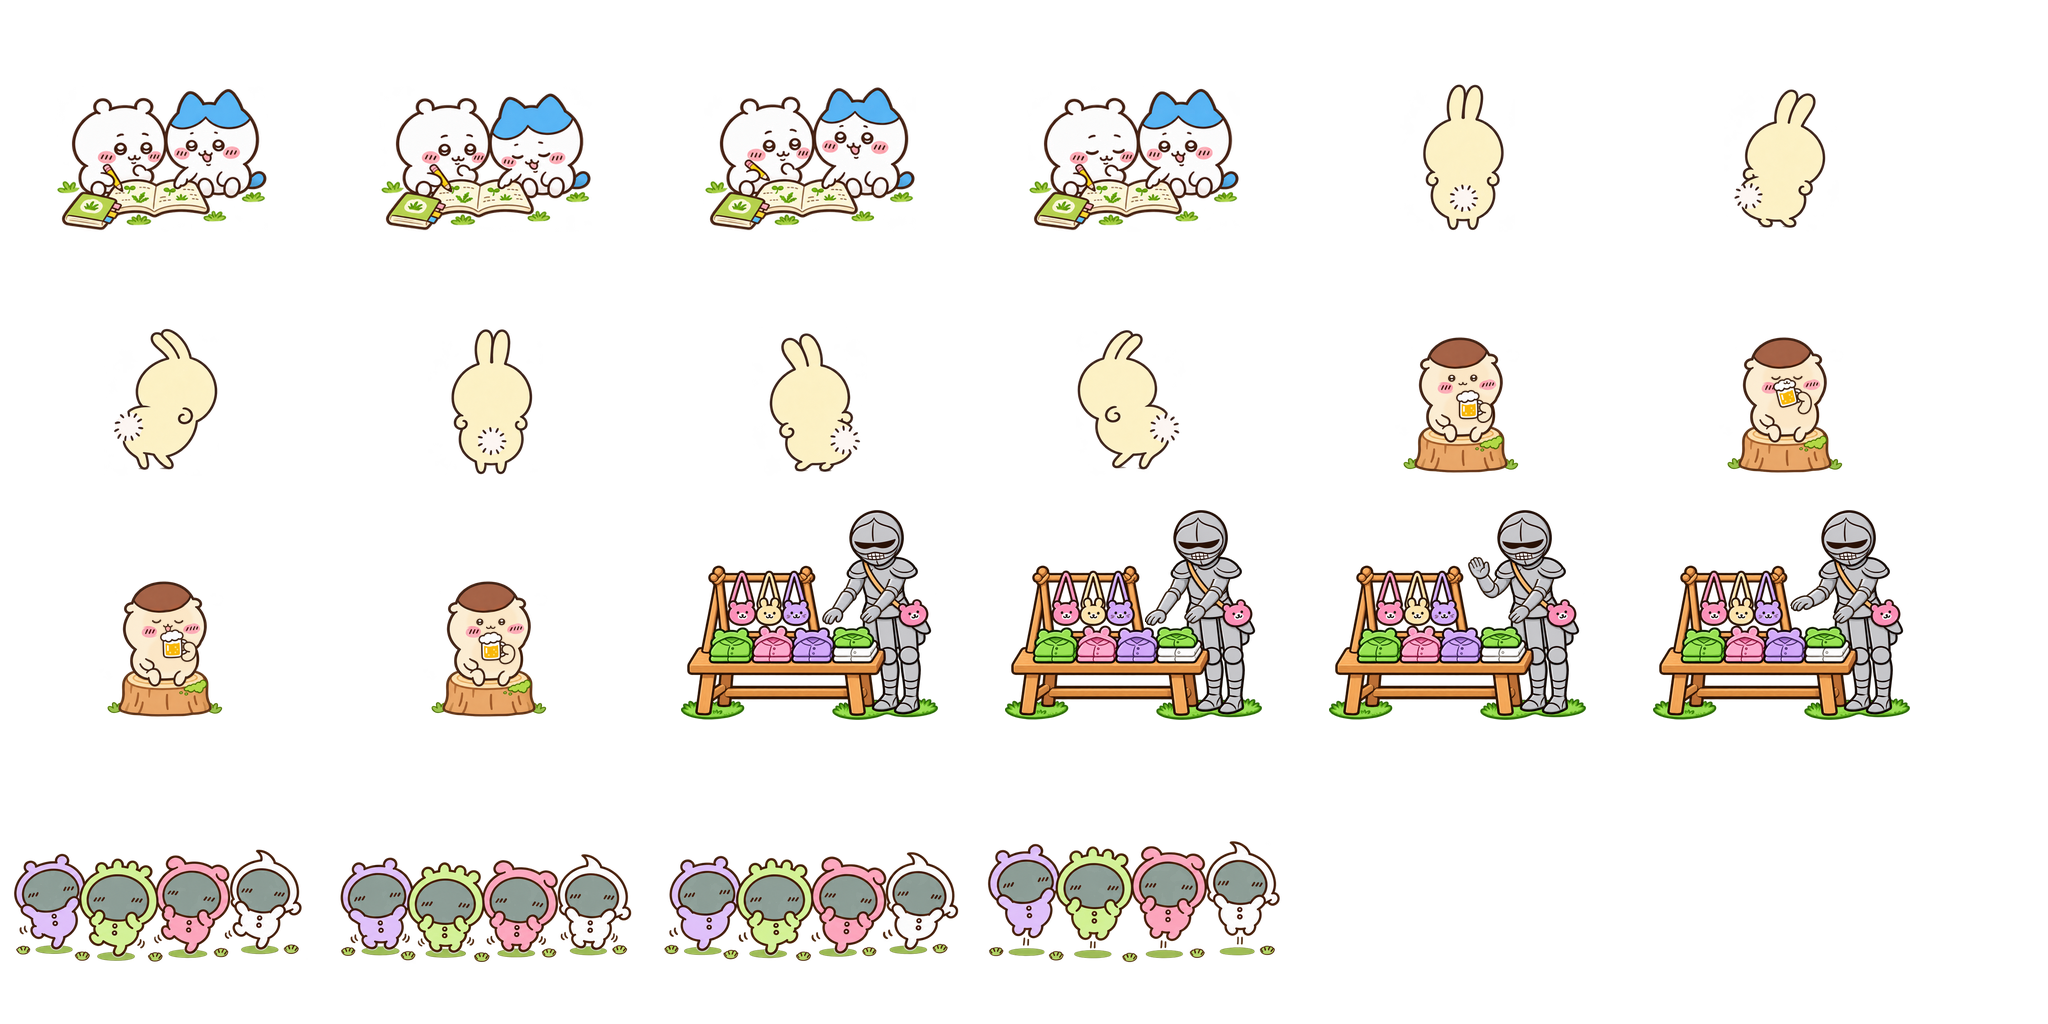
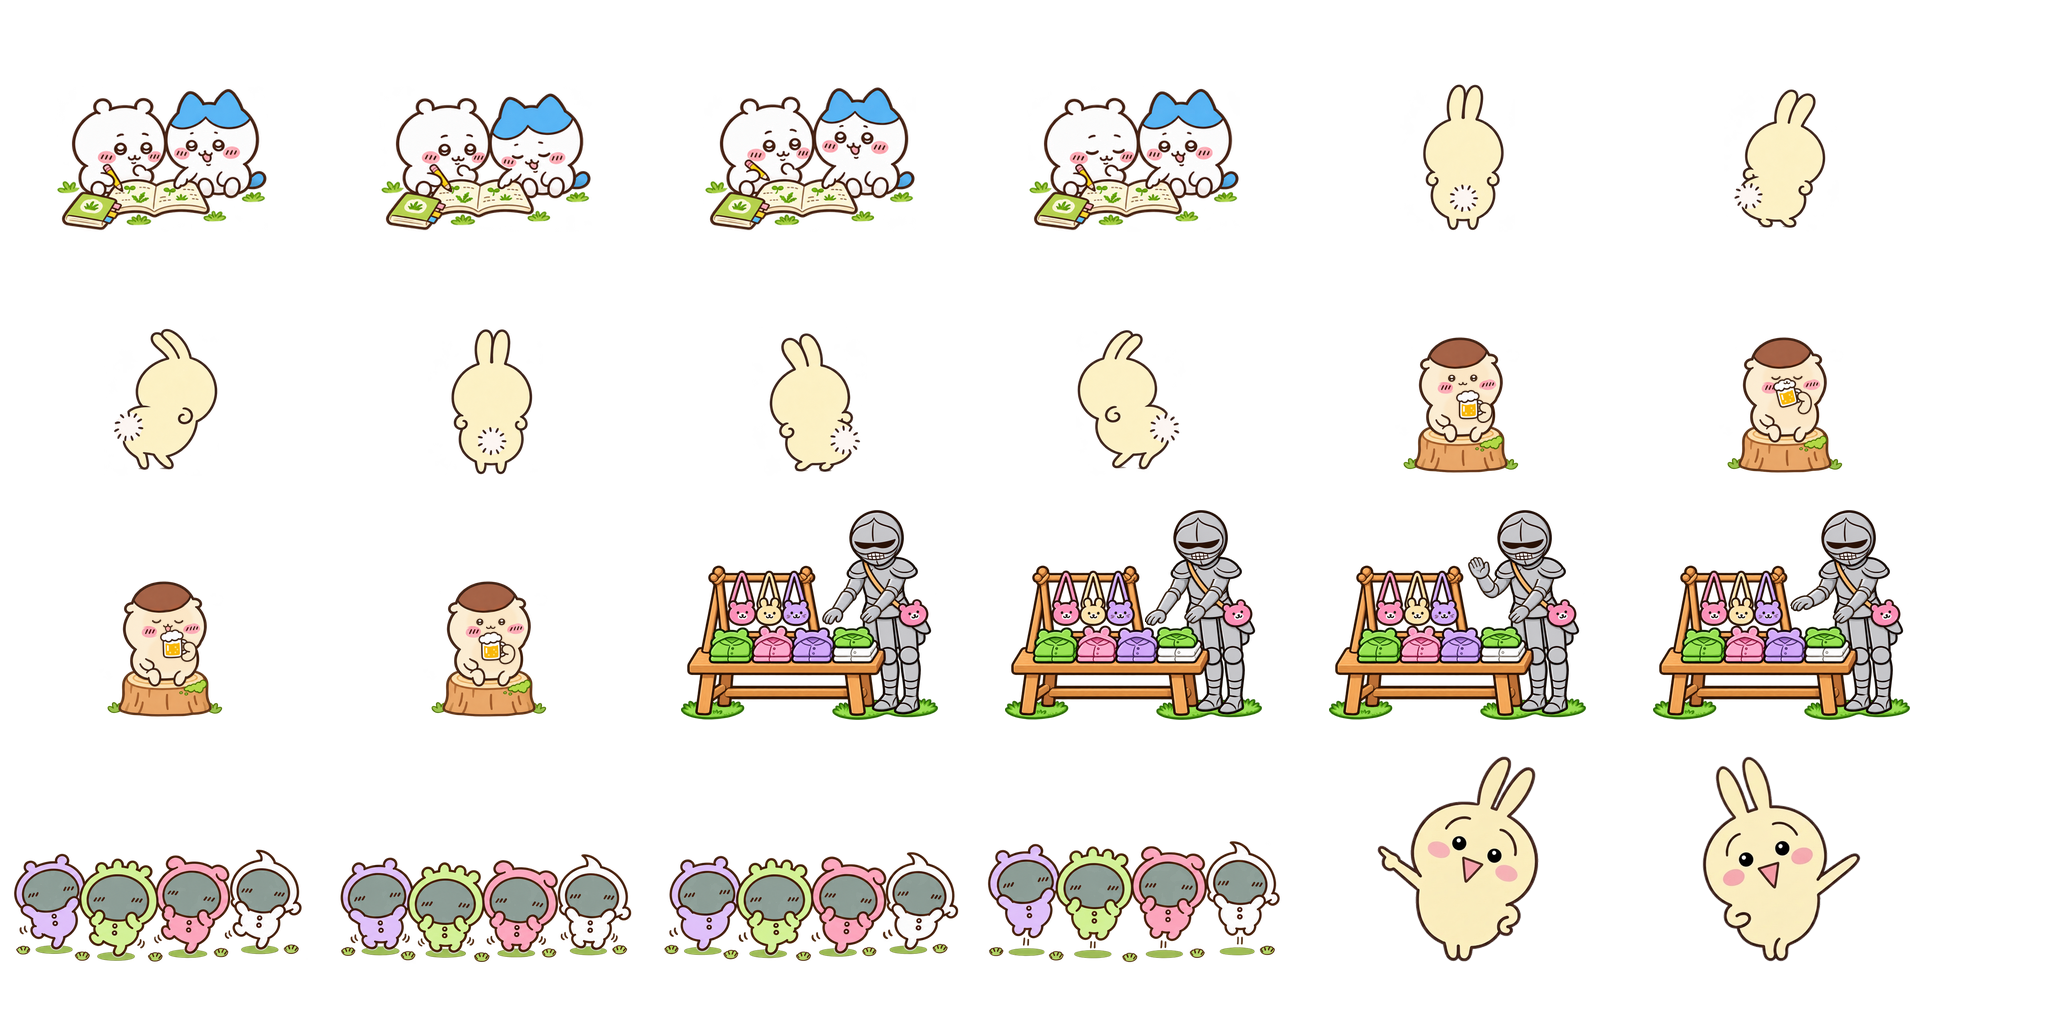
feat: apply Hachiware weeding art (no roots) and Usagi left/right dance strikes

Changed region(s): [[0.8125, 0.75, 0.9062, 0.9375], [0.6562, 0.75, 0.75, 0.9375]]

diff --git a/src/minigame.css b/src/minigame.css
@@ -115,7 +115,9 @@
 /* Weed conveyor: positions and timer follow only WeedGame's clock. */
 .weed-helper{display:flex;align-items:center;justify-content:center;gap:12px;font-weight:bold;color:#547d6b}.weed-hachiware{display:block;width:76px;height:89px;background:url('/assets/event-atlas.webp') no-repeat;background-size:405.333px 101.333px;background-position:-78.375px -.792px}
 .weed-stage{--weed-step:82px;position:relative;isolation:isolate;max-width:600px;height:138px;margin:2px auto 8px;overflow:hidden;border-radius:20px;background:linear-gradient(#f0f8e5 65%,#d7e9bb 65%);border:2px solid #c3d5ad}.weed-row{position:absolute;inset:0}.weed-center{position:absolute;left:50%;top:5px;bottom:5px;width:76px;transform:translateX(-50%);border:3px dashed #74945a;border-radius:15px;background:#fff9d78a}
-.weed-tile{position:absolute;top:14px;width:72px;height:108px;transform:translateX(-50%);border:2px solid #a6bd8c;border-radius:13px;background:#fffdf0;text-align:center}.weed-tile.is-current{border-color:#597e46;box-shadow:0 0 0 2px #e5efb7}.weed-plant{display:block;position:relative;height:70px;margin:3px auto;font-size:59px;line-height:70px;color:#ed9ea5}.weed-tile[data-kind=weed] .weed-plant{width:5px;height:45px;margin-top:21px;margin-bottom:10px;background:#72a659;border-radius:5px;transform:rotate(8deg)}.weed-tile[data-kind=weed] .weed-plant::before,.weed-tile[data-kind=weed] .weed-plant::after{content:'';position:absolute;width:23px;height:13px;background:#8cba67;border:1px solid #709956;border-radius:80% 0 80% 0;top:8px;right:0;transform:rotate(25deg);transform-origin:right bottom}.weed-tile[data-kind=weed] .weed-plant::after{right:auto;left:3px;top:20px;transform:scaleX(-1) rotate(20deg)}
+.weed-tile{position:absolute;top:14px;width:72px;height:108px;transform:translateX(-50%);border:2px solid #a6bd8c;border-radius:13px;background:#fffdf0;text-align:center}.weed-tile.is-current{border-color:#597e46;box-shadow:0 0 0 2px #e5efb7}.weed-plant{display:block;position:relative;width:56px;height:70px;margin:3px auto;background-size:contain;background-repeat:no-repeat;background-position:center bottom}
+.weed-tile[data-kind=weed] .weed-plant{background-image:url('/assets/weed-tile-plant.webp')}
+.weed-tile[data-kind=flower] .weed-plant{background-image:url('/assets/weed-tile-flower.webp')}
 .weed-outcome{display:block;font-size:11px;font-weight:bold;color:#537f4b;white-space:nowrap}.weed-tile[data-outcome=pulled] .weed-plant{opacity:.25}.weed-tile[data-outcome=wrong]{background:#ffe7df}.weed-tile[data-outcome=missed] .weed-outcome,.weed-tile[data-outcome=wrong] .weed-outcome{color:#a75f54}.weed-cue{font-size:17px;font-weight:bold;min-height:25px;color:#648555}.weed-timer{height:5px;max-width:220px;border-radius:6px;background:#e5e7cf;margin:5px auto;overflow:hidden}.weed-timer span{display:block;height:100%;background:#95b67a}.weed-progress{letter-spacing:6px;color:#80936b;min-height:25px}.weed-pull{min-width:200px;min-height:52px;margin:6px auto;border:3px solid #7e8d61;border-radius:18px;background:#e6f0c5;color:#536b45;font:bold 20px sans-serif;touch-action:manipulation;user-select:none}.weed-pull:disabled{opacity:.5}.weed-pull:active:not(:disabled){box-shadow:inset 0 3px #80936b40}
 @media(max-width:500px){.weed-stage{--weed-step:72px}.weed-tile{width:62px}.weed-center{width:66px}.weed-helper{font-size:14px}}
 @media(max-height:520px) and (orientation:landscape){.weed-helper{display:none}.weed-stage{height:116px}.weed-tile{top:7px;height:97px}.weed-cue{font-size:14px;min-height:20px}.weed-pull{min-height:36px;margin:2px auto;font-size:17px}.weed-progress{min-height:18px;font-size:13px}}

diff --git a/src/usagi-panel.ts b/src/usagi-panel.ts
@@ -3,6 +3,7 @@ import { UsagiGame, type UsagiSide } from './usagi-game';
 type Frame = { x: number; y: number; w: number; h: number };
 let root: HTMLElement | null = null;
 let frames: Frame[] = [];
+let strikeFrames: { left?: Frame; right?: Frame } = {};
 let atlasSize = { w: 2048, h: 1024 };
 let current: UsagiGame | null = null;
 
@@ -36,6 +37,10 @@ export function mountUsagiPanel(host: HTMLElement, onLane: (side: UsagiSide) => 
     const loaded = Array.from({ length: 6 }, (_, i) => atlas.frames[`usagi-dance-${i}`]?.frame as Frame);
     if (loaded.some(f => !f || !(f.w > 0 && f.h > 0))) return;
     frames = loaded;
+    strikeFrames = {
+      left: atlas.frames['usagi-strike-left']?.frame as Frame,
+      right: atlas.frames['usagi-strike-right']?.frame as Frame,
+    };
     atlasSize = atlas.meta.size;
     if (current) renderUsagiPanel(current);
   }).catch(() => { /* Keep the rabbit fallback; missing scenery art must not stop the game. */ });
@@ -54,7 +59,9 @@ export function renderUsagiPanel(g: UsagiGame, state?: { key: string }): UsagiVi
   root.querySelectorAll<HTMLButtonElement>('[data-side]').forEach(b => { b.disabled = !active; });
   const dancer = root.querySelector<HTMLElement>('.usagi-dancer')!;
   if (frames.length === 6) {
-    const f = frames[Math.floor(g.time * 7) % 6];
+    let f = frames[Math.floor(g.time * 7) % 6];
+    if (g.dance === 'left' && strikeFrames.left) f = strikeFrames.left;
+    else if (g.dance === 'right' && strikeFrames.right) f = strikeFrames.right;
     const scale = .625;
     dancer.textContent = '';
     dancer.style.backgroundImage = "url('/assets/cameo-atlas.webp')";

diff --git a/src/weed-panel.ts b/src/weed-panel.ts
@@ -42,7 +42,7 @@ export function renderWeedPanel(g: WeedGame): WeedView {
     tile.dataset.outcome = g.outcomes[i] ?? '';
     tile.classList.toggle('is-current', g.centerIndex === i);
     tile.setAttribute('aria-label', `${i + 1}번째 ${g.row[i] === 'weed' ? '풀' : '꽃'}${g.outcomes[i] ? ` · ${outcomeText[g.outcomes[i]!]}` : ''}`);
-    tile.querySelector<HTMLElement>('.weed-plant')!.textContent = g.row[i] === 'flower' ? '✿' : '';
+    tile.querySelector<HTMLElement>('.weed-plant')!.textContent = '';
     tile.querySelector<HTMLElement>('.weed-outcome')!.textContent = g.outcomes[i] ? outcomeText[g.outcomes[i]!] : '';
   });
   const cue = host.querySelector<HTMLElement>('.weed-cue')!;
